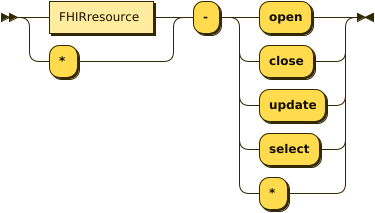
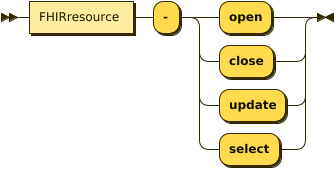
Changed the railroad image

Changed region(s): [[0.0, 0.0, 1.0, 1.0]]

diff --git a/README.md b/README.md
@@ -24,7 +24,7 @@ http://hl7.org/fhir/license.html
 
 Creative Commons "No Rights Reserved" [![CC0](https://www.hl7.org/fhir/cc0.png)](https://www.hl7.org/fhir/license.html) 
 
-##ANSI Anti-Trust Policy:
+## ANSI Anti-Trust Policy:
 
 Professional Associations, such as HL7, which bring together competing entities are subject to strict scrutiny under applicable antitrust laws. HL7 recognizes that the antitrust laws were enacted to promote fairness in competition and, as such, supports laws against monopoly and restraints of trade and their enforcement. Each individual participating in HL7 meetings and conferences, regardless of venue, is responsible for knowing the contents of and adhering to the HL7 Antitrust Policy as stated in §05.01 of the Governance and Operations Manual (GOM).
 

diff --git a/input/pagecontent/2-3-Events.md b/input/pagecontent/2-3-Events.md
@@ -30,7 +30,7 @@ The event name defines the event. Most FHIRcast events conform to an extensible 
 Patterned after the SMART on FHIR scope syntax and expressed in EBNF notation, the FHIRcast syntax for context change related events is:
 
 ```ebnf
-EventName ::= (FHIRresource | '*') ('-') ( 'open' | 'close' | 'update' | 'select' | '*' )
+EventName ::= (FHIRresource) ('-') ( 'open' | 'close' | 'update' | 'select' )
 ```
 
 {% include img.html img="EventName.png" caption="Figure: Event-name specification" %}
